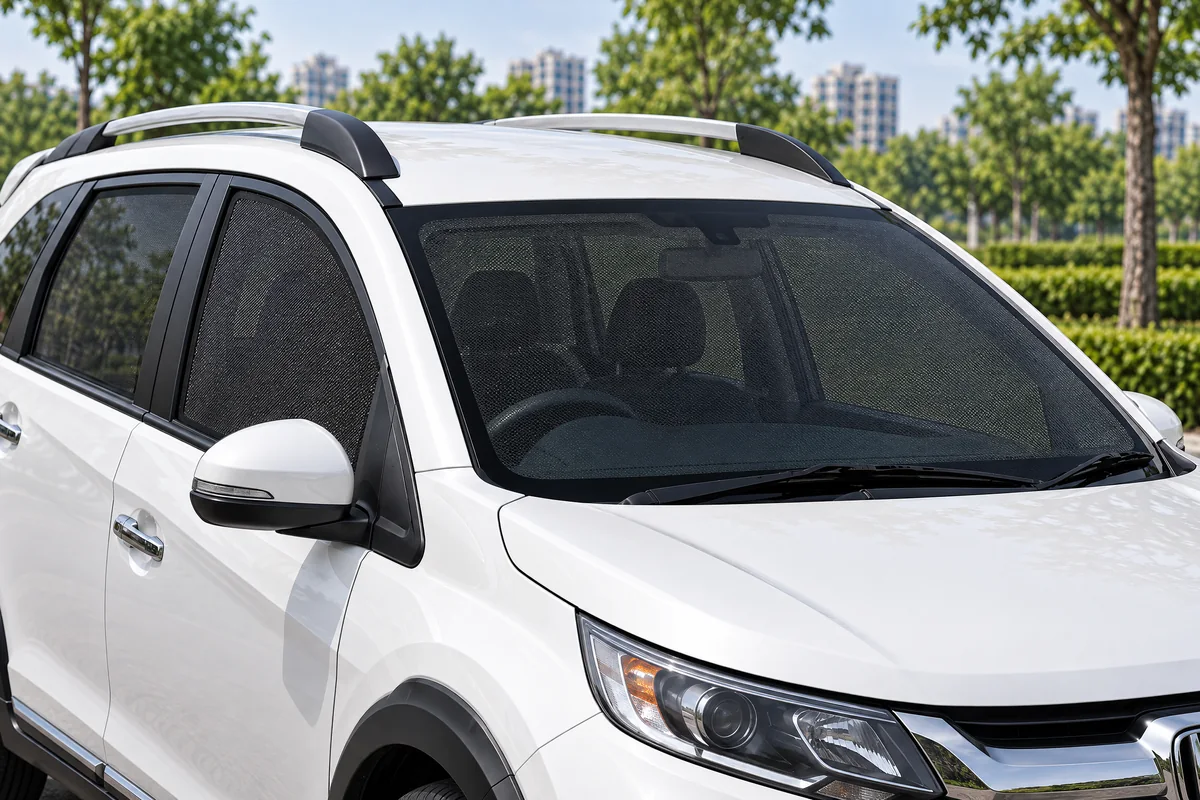
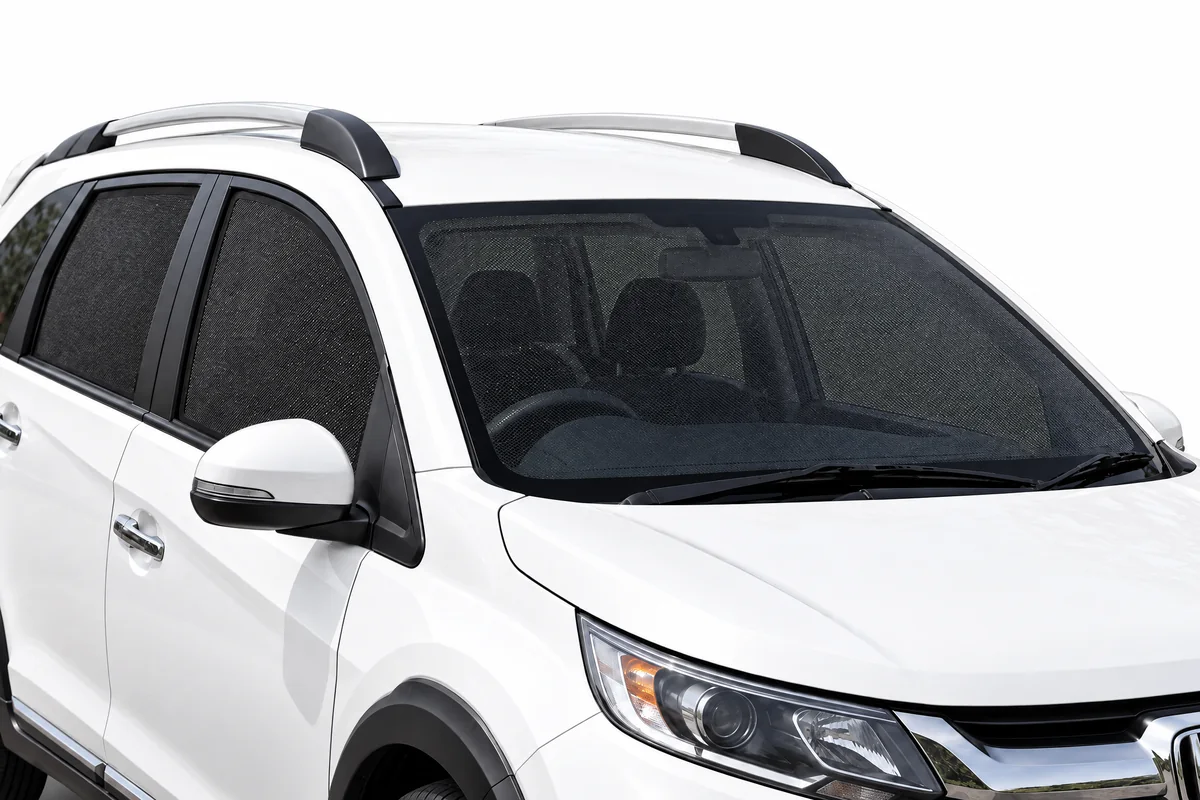
Redesign Honda detail page to match shade reference

diff --git a/app.js b/app.js
@@ -216,7 +216,7 @@ function hondaBrandPage(){
   return `<section class="honda-catalog-page"><div class="honda-catalog-inner"><nav class="honda-breadcrumb"><a href="#home">Home</a><span>/</span><span>Shop by Brand</span><span>/</span><b>Honda</b></nav><header class="honda-brand-heading"><img src="brand-logos/honda.png" alt="Honda logo"><h1>ALL <span>HONDA</span> MODELS</h1><p>Select your Honda model and year to find the right TINTX shades for your car.</p><div class="honda-promise-row"><span>✓ CUSTOM FIT</span><span>✓ UV PROTECTION</span><span>✓ EASY TO INSTALL</span><span>✓ PREMIUM MESH</span></div></header><div class="honda-catalog-grid">${cards}</div><details class="honda-photo-credits"><summary>Photo credits &amp; image licenses</summary><p>These six photos are independently licensed by their creators. The remaining Honda model illustrations are TINTX artwork.</p><ul>${credits}</ul></details></div></section>`;
 }
 
-function hondaShadeArt(id,model){
+function hondaShadeImage(id,model){
   const genericImages={
     full:'assets/honda/shades/full.webp',
     half:'assets/honda/shades/half.webp',
@@ -230,16 +230,31 @@ function hondaShadeArt(id,model){
     rear:'assets/honda/shades/br-v-rear-option.webp'
   };
   const images=model==='br-v'?brvImages:genericImages;
+  return images[id]||images.full;
+}
+
+function hondaShadeArt(id,model){
   const label={full:'full-window coverage',half:'half-window coverage',front:'front-window shades',rear:'rear-window shades'}[id]||'window shades';
-  return img(images[id]||images.full,`TINTX ${label} product example`);
+  return img(hondaShadeImage(id,model),`TINTX ${label} product example`);
+}
+
+function hondaShadeButtonAttrs(item,model){
+  return `data-honda-shade="${item.id}" data-shade-title="${item.title}" data-shade-detail="${item.description}" data-shade-price="${item.price}" data-shade-image="${hondaShadeImage(item.id,model)}"`;
 }
 
 function hondaResultsPage(){
   const query=location.hash.includes('?')?location.hash.slice(location.hash.indexOf('?')+1):'';
   const params=new URLSearchParams(query),car=HONDA_CATALOG.find(item=>item.id===params.get('model'))||HONDA_CATALOG[0];
   const year=params.get('year')||car.years[0],fitment=`Honda ${car.name} ${year}`;
-  const shades=[{id:'full',name:'Full',detail:'Full Window Coverage',price:2499},{id:'half',name:'Half',detail:'Half Window Coverage',price:2499},{id:'front',name:'Front',detail:'Front Window Shades',price:4100},{id:'rear',name:'Rear',detail:'Rear Window Shades',price:3600}];
-  return `<section class="honda-results-page"><div class="honda-results-inner"><nav class="honda-breadcrumb"><a href="#home">Home</a><span>/</span><a href="#brand-honda">Honda Models</a><span>/</span><b>${car.name} · ${year.replace('-',' – ')}</b></nav><header class="honda-results-heading"><div class="honda-selected-car-image">${img(car.image,`Honda ${car.name} with TINTX mesh sunshades`)}</div><div><p class="honda-card-brand">SELECTED CAR</p><h1>Honda ${car.name}</h1><p class="honda-selected-year">${year.replace('-',' – ')}</p><p>Choose the shade coverage you want for this vehicle.</p></div></header><div class="honda-results-title"><p class="honda-card-brand">CUSTOM-FIT TINTX SHADES</p><h2>Select shade type to view</h2><p>Selected car: <b>${fitment}</b></p></div><div class="honda-shade-grid">${shades.map(item=>`<article class="honda-shade-card"><div class="honda-shade-art">${hondaShadeArt(item.id,car.id)}</div><div class="honda-shade-copy"><span>${item.detail}</span><h3>${item.name} Coverage</h3><strong>${money(item.price)}</strong><button type="button" data-result-coverage="${item.id}" data-fitment="${fitment}">Add to cart →</button></div></article>`).join('')}</div></div></section>`;
+  const shades=[
+    {id:'full',name:'4-Side (Full Window Coverage Sunshades)',title:'4-SIDE (FULL WINDOW COVERAGE SUNSHADES)',description:'Custom-cut shades follow each window shape and help keep the cabin cool, calm and glare-free.',price:2499},
+    {id:'half',name:'4-Side (Half Window Coverage Sunshades)',title:'4-SIDE (HALF WINDOW COVERAGE SUNSHADES)',description:'A half-window set adds shade and privacy while keeping the front view clear.',price:2499},
+    {id:'front',name:'Front Window Shield',title:'FRONT WINDOW SHIELD',description:'A custom-fit front-window shade helps reduce sun and glare on bright drives.',price:4100},
+    {id:'rear',name:'Rear Window Shield',title:'REAR WINDOW SHIELD',description:'A fitted rear-window shade adds privacy and helps reduce glare from behind.',price:3600}
+  ];
+  const gallery=shades.map(item=>`<button type="button" class="honda-gallery-thumb${item.id==='full'?' is-selected':''}" ${hondaShadeButtonAttrs(item,car.id)} aria-pressed="${item.id==='full'}"><span class="honda-thumb-image">${hondaShadeArt(item.id,car.id)}</span><span class="honda-thumb-title">${item.name}</span></button>`).join('');
+  const selector=shades.map(item=>`<button type="button" class="honda-selection-chip${item.id==='full'?' is-selected':''}" ${hondaShadeButtonAttrs(item,car.id)} aria-pressed="${item.id==='full'}">${item.id==='full'?'Full Window':item.id==='half'?'Half Window':item.id==='front'?'Front Window Shield':'Rear Window Shield'}</button>`).join('');
+  return `<section class="honda-results-page"><div class="honda-results-inner"><nav class="honda-breadcrumb"><a href="#home">Home</a><span>/</span><a href="#brand-honda">Honda Models</a><span>/</span><b>${car.name} · ${year.replace('-',' – ')}</b></nav><div class="honda-product-layout"><div class="honda-gallery-column"><div class="honda-gallery-hero"><img id="honda-main-photo" src="${car.image}" alt="Honda ${car.name} with the side door open and a fitted TINTX shade"><div class="honda-photo-features"><strong>TINTX COVERAGE SUNSHADES</strong><ul><li>UV Protection</li><li>Heat Reduction</li><li>Perfect Fit</li><li>Easy Install</li><li>Long Lasting</li></ul></div><div class="honda-photo-benefits"><span><b>⌖</b> CUSTOM FIT</span><span><b>◉</b> ONE-WAY VISION</span><span><b>☼</b> REDUCES GLARE</span></div><a id="honda-photo-fullsize" class="honda-photo-fullsize" href="${car.image}" target="_blank" rel="noopener noreferrer">↗ View full size</a></div><p class="honda-gallery-heading">SELECT SHADE TYPE TO VIEW</p><div class="honda-gallery-thumbs">${gallery}</div></div><aside class="honda-product-panel"><p class="honda-card-brand">HONDA</p><h1>${car.name}</h1><p class="honda-product-year">${year.replace('-',' – ')}</p><hr><p class="honda-selected-label">SELECTED SHADE</p><h2 id="honda-selected-shade-title">${shades[0].title}</h2><p id="honda-selected-shade-description" class="honda-product-description">${shades[0].description}</p><div class="honda-quality-block"><strong>PREMIUM QUALITY</strong><p>Precision-fit mesh, easy installation and a removable design made for everyday use.</p></div><div class="honda-selection-chips" aria-label="Choose shade option">${selector}</div><p class="honda-fitment-note">Selected car: <b>${fitment}</b></p><div class="honda-product-price" id="honda-selected-price">${money(shades[0].price)}</div><p class="honda-availability"><span></span> AVAILABLE ON ORDER</p><p class="honda-order-note">Custom-made for your selected vehicle.</p><button type="button" class="honda-add-to-cart" id="honda-result-add" data-result-coverage="full" data-fitment="${fitment}">ADD TO CART</button></aside></div></div></section>`;
 }
 
 function render(){
@@ -298,6 +313,28 @@ function bind(){
     const card=button.closest('.honda-catalog-card');
     const selectedYear=card?.querySelector('.honda-year-chip.is-selected')?.dataset.hondaYear;
     if(selectedYear) location.hash=`car-honda?model=${button.dataset.hondaView}&year=${encodeURIComponent(selectedYear)}`;
+  });
+
+  document.querySelectorAll('[data-honda-shade]').forEach(button=>button.onclick=()=>{
+    const id=button.dataset.hondaShade;
+    document.querySelectorAll('[data-honda-shade]').forEach(option=>{
+      const selected=option.dataset.hondaShade===id;
+      option.classList.toggle('is-selected',selected);
+      option.setAttribute('aria-pressed',String(selected));
+    });
+    const photo=document.getElementById('honda-main-photo');
+    const fullSize=document.getElementById('honda-photo-fullsize');
+    const image=button.dataset.shadeImage;
+    if(photo&&image){photo.src=image;photo.alt=`Honda shade product view: ${button.dataset.shadeTitle}`;}
+    if(fullSize&&image)fullSize.href=image;
+    const title=document.getElementById('honda-selected-shade-title');
+    const description=document.getElementById('honda-selected-shade-description');
+    const price=document.getElementById('honda-selected-price');
+    const add=document.getElementById('honda-result-add');
+    if(title)title.textContent=button.dataset.shadeTitle;
+    if(description)description.textContent=button.dataset.shadeDetail;
+    if(price)price.textContent=money(Number(button.dataset.shadePrice));
+    if(add)add.dataset.resultCoverage=id;
   });
 
   if(makeSelect && modelSelect) {

diff --git a/packages.css b/packages.css
@@ -130,3 +130,53 @@
 .honda-photo-credits ul{margin:6px 0 0;padding-left:19px}
 .honda-photo-credits li{margin:5px 0}
 .honda-photo-credits a{color:#087964;text-underline-offset:2px}
+
+
+/* Reference-inspired Honda product gallery: crisp text stays in HTML, not baked into photos. */
+.honda-product-layout{display:grid;grid-template-columns:minmax(0,1.28fr) minmax(330px,.82fr);gap:30px;align-items:start}
+.honda-gallery-column{min-width:0}
+.honda-gallery-hero{position:relative;isolation:isolate;overflow:hidden;height:clamp(310px,34vw,430px);border:1px solid #e4e8e9;border-radius:16px;background:#fff;box-shadow:0 8px 24px rgba(16,31,36,.08)}
+.honda-gallery-hero>img{display:block;width:100%;height:100%;object-fit:contain;background:#fff}
+.honda-photo-features{position:absolute;z-index:2;top:16px;left:16px;width:min(205px,38%);padding:13px 15px;border:1px solid rgba(226,232,234,.92);border-radius:10px;background:rgba(255,255,255,.94);box-shadow:0 5px 16px rgba(12,30,38,.1)}
+.honda-photo-features>strong{display:block;margin-bottom:7px;color:#173d64;font-size:13px;font-style:italic;font-weight:900;letter-spacing:.035em;line-height:1.15;text-transform:uppercase}
+.honda-photo-features ul{display:grid;gap:4px;margin:0;padding:0;list-style:none}
+.honda-photo-features li{display:flex;align-items:center;gap:7px;color:#36444a;font-size:11px;font-weight:700;line-height:1.2}
+.honda-photo-features li:before{display:grid;place-items:center;flex:none;width:15px;height:15px;border-radius:50%;background:#174b79;color:#fff;content:'✓';font-size:10px;font-weight:900}
+.honda-photo-benefits{position:absolute;z-index:2;right:0;bottom:0;left:0;display:flex;align-items:center;gap:0;min-height:43px;padding:0 16px;background:rgba(8,35,57,.94);color:#fff}
+.honda-photo-benefits span{display:flex;align-items:center;gap:6px;padding:0 12px;border-right:1px solid rgba(255,255,255,.22);font-size:9px;font-weight:900;letter-spacing:.035em;white-space:nowrap}
+.honda-photo-benefits span:first-child{padding-left:0}
+.honda-photo-benefits span:last-child{border-right:0}
+.honda-photo-benefits b{color:#d9edf7;font-size:14px}
+.honda-photo-fullsize{position:absolute;z-index:3;right:14px;bottom:55px;padding:8px 13px;border:1px solid #e4e8e9;border-radius:999px;background:#fff;color:#26343a;font-size:11px;font-weight:850;text-decoration:none;box-shadow:0 3px 9px rgba(0,0,0,.12)}
+.honda-photo-fullsize:hover{border-color:#08a98f;color:#087964}
+.honda-gallery-heading{margin:17px 0 10px;color:#697478;font-size:11px;font-weight:850;letter-spacing:.12em}
+.honda-gallery-thumbs{display:grid;grid-template-columns:repeat(4,minmax(0,1fr));gap:10px}
+.honda-gallery-thumb{display:flex;min-width:0;flex-direction:column;gap:8px;padding:8px;border:1px solid #e3e7e8;border-radius:12px;background:#fff;color:#111c20;text-align:left;cursor:pointer;transition:border-color .15s,box-shadow .15s,transform .15s}
+.honda-gallery-thumb:hover{transform:translateY(-2px);border-color:#91cfc3;box-shadow:0 5px 14px rgba(16,31,36,.08)}
+.honda-gallery-thumb.is-selected{border:2px solid #08a98f;padding:7px;box-shadow:0 3px 12px rgba(8,169,143,.13)}
+.honda-thumb-image{display:block;width:100%;height:92px;overflow:hidden;border-radius:7px;background:#fff}
+.honda-thumb-image img{display:block;width:100%;height:100%;object-fit:contain;background:#fff}
+.honda-thumb-title{display:block;min-height:43px;color:#1d292e;font-size:11px;font-weight:800;line-height:1.3}
+.honda-product-panel{padding:26px 27px 24px;border:1px solid #e4e8e9;border-radius:16px;background:#fff;box-shadow:0 8px 24px rgba(16,31,36,.07)}
+.honda-product-panel h1{margin:5px 0 2px;color:#b31e27;font-size:clamp(32px,4vw,42px);font-weight:900;line-height:1.03}
+.honda-product-year{margin:0;color:#a42a30;font-size:14px;font-weight:700}
+.honda-product-panel hr{height:1px;margin:18px 0;border:0;background:#e3e6e7}
+.honda-selected-label{margin:0 0 5px;color:#687478;font-size:10px;font-weight:850;letter-spacing:.12em}
+.honda-product-panel h2{margin:0 0 10px;color:#151d20;font-size:17px;font-weight:900;line-height:1.32}
+.honda-product-description{margin:0 0 17px;color:#697478;font-size:14px;line-height:1.55}
+.honda-quality-block{margin:0 0 17px}
+.honda-quality-block strong{color:#202a2e;font-size:10px;font-weight:900;letter-spacing:.11em}
+.honda-quality-block p{margin:5px 0 0;color:#697478;font-size:13px;line-height:1.5}
+.honda-selection-chips{display:flex;flex-wrap:wrap;gap:8px;margin:15px 0 13px}
+.honda-selection-chip{min-height:37px;padding:8px 12px;border:1px solid #dfe4e5;border-radius:999px;background:#fff;color:#687175;font-size:10px;font-weight:900;letter-spacing:.045em;cursor:pointer}
+.honda-selection-chip:hover{border-color:#08a98f;color:#087964}
+.honda-selection-chip.is-selected{border-color:#08a98f;background:#08a98f;color:#fff}
+.honda-product-price{margin:9px 0 4px;color:#171f22;font-size:28px;font-weight:950;line-height:1.15}
+.honda-availability{display:inline-flex;align-items:center;gap:7px;margin:6px 0 3px;padding:5px 9px;border:1px solid #e1e5e6;border-radius:999px;color:#414c50;font-size:9px;font-weight:900;letter-spacing:.06em}
+.honda-availability span{width:8px;height:8px;border-radius:50%;background:#e1404c;box-shadow:0 0 0 3px #fbe9eb}
+.honda-order-note{margin:2px 0 13px;color:#798286;font-size:11px}
+.honda-add-to-cart{width:100%;min-height:48px;border:0;border-radius:999px;background:#08a98f;color:#06201c;font-size:12px;font-weight:950;letter-spacing:.04em;cursor:pointer}
+.honda-add-to-cart:hover{filter:brightness(.94)}
+@media(max-width:960px){.honda-product-layout{grid-template-columns:minmax(0,1.12fr) minmax(300px,.88fr);gap:18px}.honda-gallery-thumbs{gap:7px}.honda-gallery-thumb{padding:6px}.honda-gallery-thumb.is-selected{padding:5px}.honda-thumb-image{height:76px}.honda-thumb-title{font-size:10px}.honda-product-panel{padding:21px}}
+@media(max-width:760px){.honda-product-layout{grid-template-columns:1fr}.honda-gallery-hero{height:clamp(280px,62vw,400px)}.honda-product-panel{padding:22px}}
+@media(max-width:520px){.honda-gallery-thumbs{grid-template-columns:repeat(2,minmax(0,1fr));gap:9px}.honda-thumb-image{height:112px}.honda-thumb-title{min-height:32px;font-size:11px}.honda-photo-features{top:10px;left:10px;width:156px;padding:9px 10px}.honda-photo-features>strong{font-size:10px}.honda-photo-features li{font-size:9px}.honda-photo-features li:before{width:13px;height:13px;font-size:9px}.honda-photo-benefits{min-height:37px;padding:0 7px}.honda-photo-benefits span{gap:3px;padding:0 6px;font-size:7px}.honda-photo-benefits b{font-size:11px}.honda-photo-fullsize{right:8px;bottom:46px;padding:6px 9px;font-size:9px}.honda-product-panel{padding:19px}.honda-selection-chip{font-size:9px;padding:7px 10px}}

diff --git a/honda.html b/honda.html
@@ -9,7 +9,7 @@
   <link rel="stylesheet" href="styles.css?v=22">
   <link rel="stylesheet" href="ui-enhancements.css?v=10">
   <link rel="stylesheet" href="mobile-fix.css?v=7">
-  <link rel="stylesheet" href="packages.css?v=12">
+  <link rel="stylesheet" href="packages.css?v=13">
 </head>
 <body>
   <div class="announcement">Nationwide delivery across Pakistan <span>•</span> Cash on Delivery available</div>
@@ -23,6 +23,6 @@
   <div class="mobile-order-bar" id="mobile-order-bar" aria-label="Quick order"><div><small>TINTX ORIGINAL</small><strong>PKR 2,499</strong></div><a href="#product" class="button button-primary">Order now</a></div>
   <a class="whatsapp whatsapp-logo" style="bottom:110px !important; right:22px !important;" href="https://wa.me/923112205795" target="_blank" rel="noopener noreferrer" aria-label="Chat with TINTX on WhatsApp" title="Chat with TINTX on WhatsApp"><svg viewBox="0 0 32 32" aria-hidden="true" focusable="false"><path fill="currentColor" d="M19.11 17.41c-.27-.14-1.59-.78-1.84-.87-.25-.09-.43-.14-.61.14-.18.27-.7.87-.86 1.05-.16.18-.32.2-.59.07-.27-.14-1.13-.42-2.15-1.33-.79-.7-1.33-1.56-1.49-1.83-.16-.27-.02-.42.12-.56.12-.12.27-.32.41-.48.14-.16.18-.27.18-.45.09-.18.05-.34-.02-.48-.07-.14-.61-1.47-.84-2.01-.22-.53-.45-.46-.61-.47h-.52c-.18 0-.48.07-.73.34-.25.27-.95.93-.95 2.27s.98 2.63 1.11 2.81c.14.18 1.93 2.95 4.68 4.14.65.28 1.16.45 1.56.58.66.21 1.26.18 1.73.11.53-.08 1.59-.65 1.82-1.28.23-.63.23-1.17.16-1.28-.07-.11-.25-.18-.52-.32z"/><path fill="currentColor" d="M16.03 3.2c-7.07 0-12.8 5.73-12.8 12.8 0 2.26.59 4.38 1.63 6.22L3.12 28.8l6.73-1.7a12.73 12.73 0 0 0 6.18 1.59h.01c7.06 0 12.8-5.74 12.8-12.8S23.1 3.2 16.03 3.2zm0 23.4h-.01a10.58 10.58 0 0 1-5.4-1.47l-.39-.23-3.99 1.01 1.07-3.89-.25-.4a10.58 10.58 0 1 1 8.97 4.98z"/></svg><span class="sr-only">Chat on WhatsApp</span></a>
   <footer class="site-footer"><div><a class="brand footer-brand-logo" href="#home" aria-label="TINTX home"><img src="logo-new.png" alt="TINTX Logo" class="brand-logo"></a><p>Privacy on demand. Comfort every drive.</p></div><div><b>Shop</b><a href="#shop">Current shade</a><a href="#fit-guide">Fit guide</a></div><div><b>Help</b><a href="#help">FAQs</a><a href="#help">Return & Exchange</a><a href="https://wa.me/923112205795" target="_blank" rel="noreferrer">WhatsApp</a></div><div><b>Contact</b><span>Cash on Delivery</span><span>Free delivery Pakistan</span></div><small class="copyright">© 2026 TINTX. All rights reserved.</small></footer>
-  <script src="app.js?v=22"></script><script src="ui-enhancements.js?v=5"></script><script src="packages.js?v=7"></script><script src="checkout.js?v=2"></script><script src="fitment-order-fix.js?v=2"></script>
+  <script src="app.js?v=23"></script><script src="ui-enhancements.js?v=5"></script><script src="packages.js?v=7"></script><script src="checkout.js?v=2"></script><script src="fitment-order-fix.js?v=2"></script>
   <link rel="stylesheet" href="https://chatzy-kb-store.s3.amazonaws.com/icons/5ab07987-b5db-477c-82ff-1287e0883acb"><script src="https://chatzy-kb-store.s3.amazonaws.com/icons/56706cc4-b3ba-4eba-9610-f2fb07008a5c" id="69ae07f7-b4e2-4058-9d3a-87108723097f" class="chatzy_widget_script" defer></script>
 </body></html>

diff --git a/index.html b/index.html
@@ -9,7 +9,7 @@
   <link rel="stylesheet" href="styles.css?v=22">
   <link rel="stylesheet" href="ui-enhancements.css?v=10">
   <link rel="stylesheet" href="mobile-fix.css?v=7">
-  <link rel="stylesheet" href="packages.css?v=12">
+  <link rel="stylesheet" href="packages.css?v=13">
 </head>
 <body>
   <div class="announcement">Nationwide delivery across Pakistan <span>•</span> Cash on Delivery available</div>
@@ -23,6 +23,6 @@
   <div class="mobile-order-bar" id="mobile-order-bar" aria-label="Quick order"><div><small>TINTX ORIGINAL</small><strong>PKR 2,499</strong></div><a href="#product" class="button button-primary">Order now</a></div>
   <a class="whatsapp whatsapp-logo" style="bottom:110px !important; right:22px !important;" href="https://wa.me/923112205795" target="_blank" rel="noopener noreferrer" aria-label="Chat with TINTX on WhatsApp" title="Chat with TINTX on WhatsApp"><svg viewBox="0 0 32 32" aria-hidden="true" focusable="false"><path fill="currentColor" d="M19.11 17.41c-.27-.14-1.59-.78-1.84-.87-.25-.09-.43-.14-.61.14-.18.27-.7.87-.86 1.05-.16.18-.32.2-.59.07-.27-.14-1.13-.42-2.15-1.33-.79-.7-1.33-1.56-1.49-1.83-.16-.27-.02-.42.12-.56.12-.12.27-.32.41-.48.14-.16.18-.27.18-.45.09-.18.05-.34-.02-.48-.07-.14-.61-1.47-.84-2.01-.22-.53-.45-.46-.61-.47h-.52c-.18 0-.48.07-.73.34-.25.27-.95.93-.95 2.27s.98 2.63 1.11 2.81c.14.18 1.93 2.95 4.68 4.14.65.28 1.16.45 1.56.58.66.21 1.26.18 1.73.11.53-.08 1.59-.65 1.82-1.28.23-.63.23-1.17.16-1.28-.07-.11-.25-.18-.52-.32z"/><path fill="currentColor" d="M16.03 3.2c-7.07 0-12.8 5.73-12.8 12.8 0 2.26.59 4.38 1.63 6.22L3.12 28.8l6.73-1.7a12.73 12.73 0 0 0 6.18 1.59h.01c7.06 0 12.8-5.74 12.8-12.8S23.1 3.2 16.03 3.2zm0 23.4h-.01a10.58 10.58 0 0 1-5.4-1.47l-.39-.23-3.99 1.01 1.07-3.89-.25-.4a10.58 10.58 0 1 1 8.97 4.98z"/></svg><span class="sr-only">Chat on WhatsApp</span></a>
   <footer class="site-footer"><div><a class="brand footer-brand-logo" href="#home" aria-label="TINTX home"><img src="logo-new.png" alt="TINTX Logo" class="brand-logo"></a><p>Privacy on demand. Comfort every drive.</p></div><div><b>Shop</b><a href="#shop">Current shade</a><a href="#fit-guide">Fit guide</a></div><div><b>Help</b><a href="#help">FAQs</a><a href="#help">Return & Exchange</a><a href="https://wa.me/923112205795" target="_blank" rel="noreferrer">WhatsApp</a></div><div><b>Contact</b><span>Cash on Delivery</span><span>Free delivery Pakistan</span></div><small class="copyright">© 2026 TINTX. All rights reserved.</small></footer>
-  <script src="app.js?v=22"></script><script src="ui-enhancements.js?v=5"></script><script src="packages.js?v=7"></script><script src="checkout.js?v=2"></script><script src="fitment-order-fix.js?v=2"></script>
+  <script src="app.js?v=23"></script><script src="ui-enhancements.js?v=5"></script><script src="packages.js?v=7"></script><script src="checkout.js?v=2"></script><script src="fitment-order-fix.js?v=2"></script>
   <link rel="stylesheet" href="https://chatzy-kb-store.s3.amazonaws.com/icons/5ab07987-b5db-477c-82ff-1287e0883acb"><script src="https://chatzy-kb-store.s3.amazonaws.com/icons/56706cc4-b3ba-4eba-9610-f2fb07008a5c" id="69ae07f7-b4e2-4058-9d3a-87108723097f" class="chatzy_widget_script" defer></script>
 </body></html>
